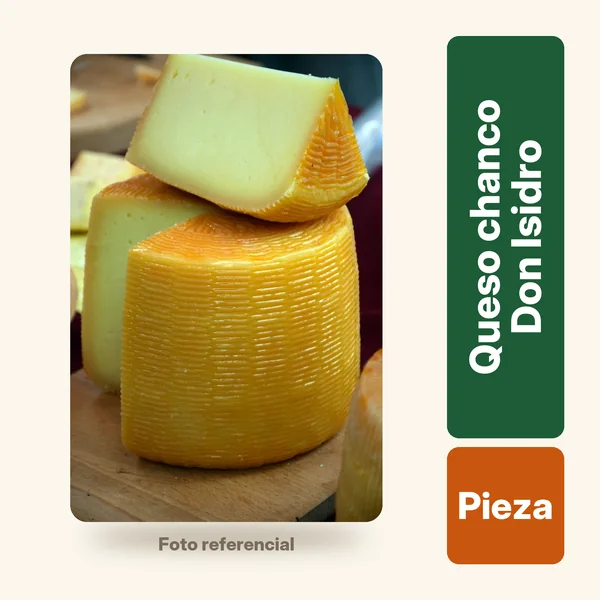
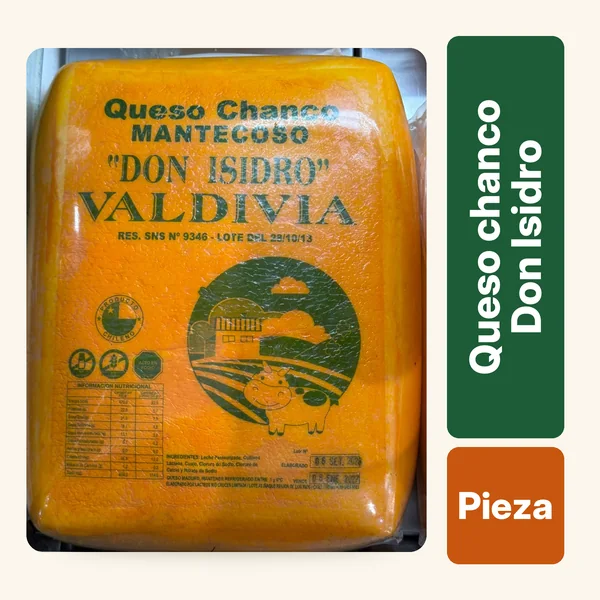
Quesos El Roble LAC012, LAC015 y LAC017 en la carta; foto real del Don Isidro (pieza)
Precios de la lista Emporio de MyPyme y fotos de David del 25/11/2026.

diff --git a/carta/index.html b/carta/index.html
@@ -1950,6 +1950,10 @@ const LOCALES = {
       {cod:"LAC013",cat:"Lácteos",nombre:"Queso fresco Los Tilos 350 g",detalle:"Precio por unidad",precio:2400,nuevo:true,foto:"../img/productos/fotos/LAC013.webp"},
       {cod:"LAC014",cat:"Lácteos",nombre:"Queso chacra El Roble 450 g",detalle:"Precio por unidad",precio:3290,nuevo:true,foto:"../img/productos/fotos/LAC014.webp"},
       {cod:"LAC016",cat:"Lácteos",nombre:"Queso de cabra El Roble (barra)",detalle:"Precio por kilo",precio:18800,bolsas:[[250,4920],[1000,18800]],porcion:true,pieza:18050,nuevo:true,foto:"../img/productos/fotos/LAC016.webp"},
+      // 25/11/2026 (David: «si ya los tienes en mypyme, súbelos a la página web con su producto y todo de una»): precio = lista Emporio de MyPyme; fotos de David.
+      {cod:"LAC012",cat:"Lácteos",nombre:"Queso mantecoso laminado El Roble 250 g",detalle:"Precio por unidad",precio:3000,nuevo:true,foto:"../img/productos/fotos/LAC012.webp"},
+      {cod:"LAC015",cat:"Lácteos",nombre:"Queso cremoso y mantecoso El Roble (barra)",detalle:"Precio por kilo",precio:6750,bolsas:[[250,2100],[1000,6750]],porcion:true,nuevo:true,foto:"../img/productos/fotos/LAC015.webp"},
+      {cod:"LAC017",cat:"Lácteos",nombre:"Queso mantecoso El Roble (pieza)",detalle:"Precio por kilo",precio:9200,bolsas:[[250,2410],[1000,9200]],porcion:true,pieza:8820,nuevo:true,foto:"../img/productos/fotos/LAC017.webp"},
       // 23/11/2026 (David: «estos son todos los códigos, porque faltan congelados y cecinas»): productos nuevos de la planilla 13, código = el de MyPyme,
       // precio = «Precio venta» de la planilla 13; las cecinas por kilo se venden en ¼ kg o 1 kg (el ¼ kg es el de la planilla, columna «Observaciones»).
       {cod:"CEC001",cat:"Cecinas",nombre:"Jamón pierna sándwich Receta del Abuelo",detalle:"Precio por kilo",precio:11400,bolsas:[[250,2950],[1000,11400]],porcion:true,nuevo:true,foto:"../img/productos/fotos/CEC001.webp"},

diff --git a/CLAUDE.md b/CLAUDE.md
@@ -416,6 +416,7 @@ Pedido de David: «el stock que hay en bodega según la planilla actualizada que
 - **Publicación del 25/11/2026 a las 12:53:** «Publicar sitio» de dc2c476 falló en `deploy-pages` (el armado salió bien; el push anterior 014ade8 ni siquiera lanzó trabajo). Sin `gh` con sesión, se volvió a publicar con un commit vacío (32ff537) y salió bien; se revisaron en la web en línea todos los precios del día y el código bajo la foto.
 - **Queso chacra El Roble LAC014 a $3.290 (25/11/2026, David: «lac014 3290 cambia el precio de todos lados y lo subes de una»):** web (antes $3.320), MyPyme Unidad, planilla 13 (fila 548, `precios13ae.py`) y lista de cambios (fila 287).
 - **Nombres de LAC013 y LAC014 en MyPyme iguales a la web (25/11/2026, David: «cambia el nombre en mypyme desde ficha de articulo al mismo que está en la pagina»):** «Queso fresco los tilos 1/2 350» → «Queso fresco Los Tilos 350 g» y «Chacra el roble 450 gr» → «Queso chacra El Roble 450 g» (por `guardaArticulo` con los datos de la ficha; solo cambió el nombre). LAC014 a $3.290 verificado en la web en línea. Ojo: la API de GitHub sin sesión tiene 60 consultas por hora; si se agota, comprobar la carta en línea directamente.
+- **Quesos El Roble LAC012, LAC015 y LAC017 en la web (25/11/2026, David: «si ya los tienes en mypyme, súbelos a la página web con su producto y todo de una»):** precio = lista Emporio de MyPyme: LAC012 «Queso mantecoso laminado El Roble 250 g» $3.000 la unidad; LAC015 «Queso cremoso y mantecoso El Roble (barra)» ¼ $2.100 y kilo $6.750 (sin pieza: MyPyme no tiene «Pieza kilo»); LAC017 «Queso mantecoso El Roble (pieza)» ¼ $2.410, kilo $9.200 y pieza $8.820 el kilo. Fotos de David del 25/11 con `fichaFoto.py` (scratchpad `roble25/`; la de la barra venía al revés y se giró). LAC001 Don Isidro (pieza) pasó de foto referencial a la foto real de David; LAC002 (barra) sigue con la referencial. Costos reales (facturas Comercial de Campo con sus notas de crédito): barra cremoso $5.500 + IVA el kilo ($6.545; NC 162803 a la FE 1379948), pieza mantecoso $6.300 + IVA ($7.497; NC 162805 a la FE 1379955), cabra $12.861 + IVA ($15.305; FE 1379517), laminado $1.950 + IVA c/u, mantequilla $1.977,53 + IVA c/u, chacra $2.170,10 + IVA c/u y fresco Los Tilos $1.574,08 + IVA c/u (factura del 20/11, N° tapado en la foto). Ojo: el kilo de LAC015 a $6.750 deja 3 % (fórmula: $8.040) y la mantequilla El Roble LAC011 a $2.050 queda bajo el costo ($2.353). Planilla 13: filas 559–561 (`planilla13Roble.py`).
 - **Códigos de barras EAN-13 en MyPyme (25/11/2026, David: «agrégale a cada producto un código de barras siguiendo un patrón EAN»; eligió «20 + familia + número» para «todos los activos»):** los 661 artículos activos tienen `codigo_barra` = «20» + familia (2 dígitos) + número del código (8 dígitos) + verificador EAN-13. Familias en orden alfabético de las 19 de la planilla: ALI 01, ALU 02, BEB 03, CAR 04, CEC 05, CGL 06, CON 07, DES 08, DUL 09, EQU 10, GRA 11, HUE 12, INS 13, LAC 14, LIM 15, MAD 16, MER 17, PAP 18, PLA 19; además ABA 20 y OTR 21 (52 códigos antiguos que siguen activos en MyPyme y no están en la planilla 13). Ejemplo: LAC001 → 2014000000012. Los inactivos (LAC009) no llevan. Lista: `Desktop/Códigos de barras MyPyme 2026-11-25.xlsx` (hecha con `facturas24/codigosBarras.py`). Un artículo nuevo lleva el código de su patrón. **Ojo al guardar fichas:** `validaActualiza()` de MyPyme pone `costo = 1` cuando el campo de costo está oculto (artículos con varias U.M.); por eso se guardó enviando `guardaArticulo` con los mismos datos de `obtieneArticuloPorCodigo` más el código, y se comparó la ficha antes y después (solo cambió `flete` vacío → 0 en 30 fichas). LAC004 quedó un momento en costo 1 por una prueba con la pantalla y se devolvió a 6,681. 565 artículos ya tenían costo 1 en MyPyme antes de esto.
 - **Código bajo la foto en la carta (25/11/2026, David: «edita el catálogo para que cada producto tenga su código a la vista en chiquitito debajo de la imagen. o los que tengan en su etiqueta al lado»):** `codFotoHTML(p)` pone bajo la foto «Cód. <código MyPyme>» y, si tiene, «Etiq. <COD_ETIQ>» (en computador en una línea con « · », en el celular uno bajo el otro bajo la foto chica, con la tarjeta en grilla: foto fila 1, código fila 2, datos a la derecha). No va en promos ni en la tarjeta de una familia de tamaños hasta que se elige uno; en el carro está oculto (`.cod-foto{display:none}` fuera de `#carta`).
 - **Escaneo en la Nota de Pedido de MyPyme (25/11/2026, revisado en `ven_documento_venta5c/?t=nv`, sin crear documentos):** `buscaArticuloPorCodigo` busca por código interno o de barras («interno-barra») y agrega la línea sola SOLO si el artículo tiene una U.M.; con varias (261 artículos: Unidad + Paquete, Gramos + 250 gr + Kilogramos…) se queda en el selector de U.M. esperando que elijan. Los 13 quesos marcados «pesable» (LAC001–LAC008, LAC022–LAC026) no se encuentran por su código de barras: MyPyme lee los códigos de balanza con la estructura `24CCCCCPPPPPD`. 108 artículos (ABA, OTR, EQU004–029 y otros) no salen ni por código interno porque no tienen precio en la lista Emporio. Un código de fábrica escaneado no existe en MyPyme (solo tienen el interno 20…).
